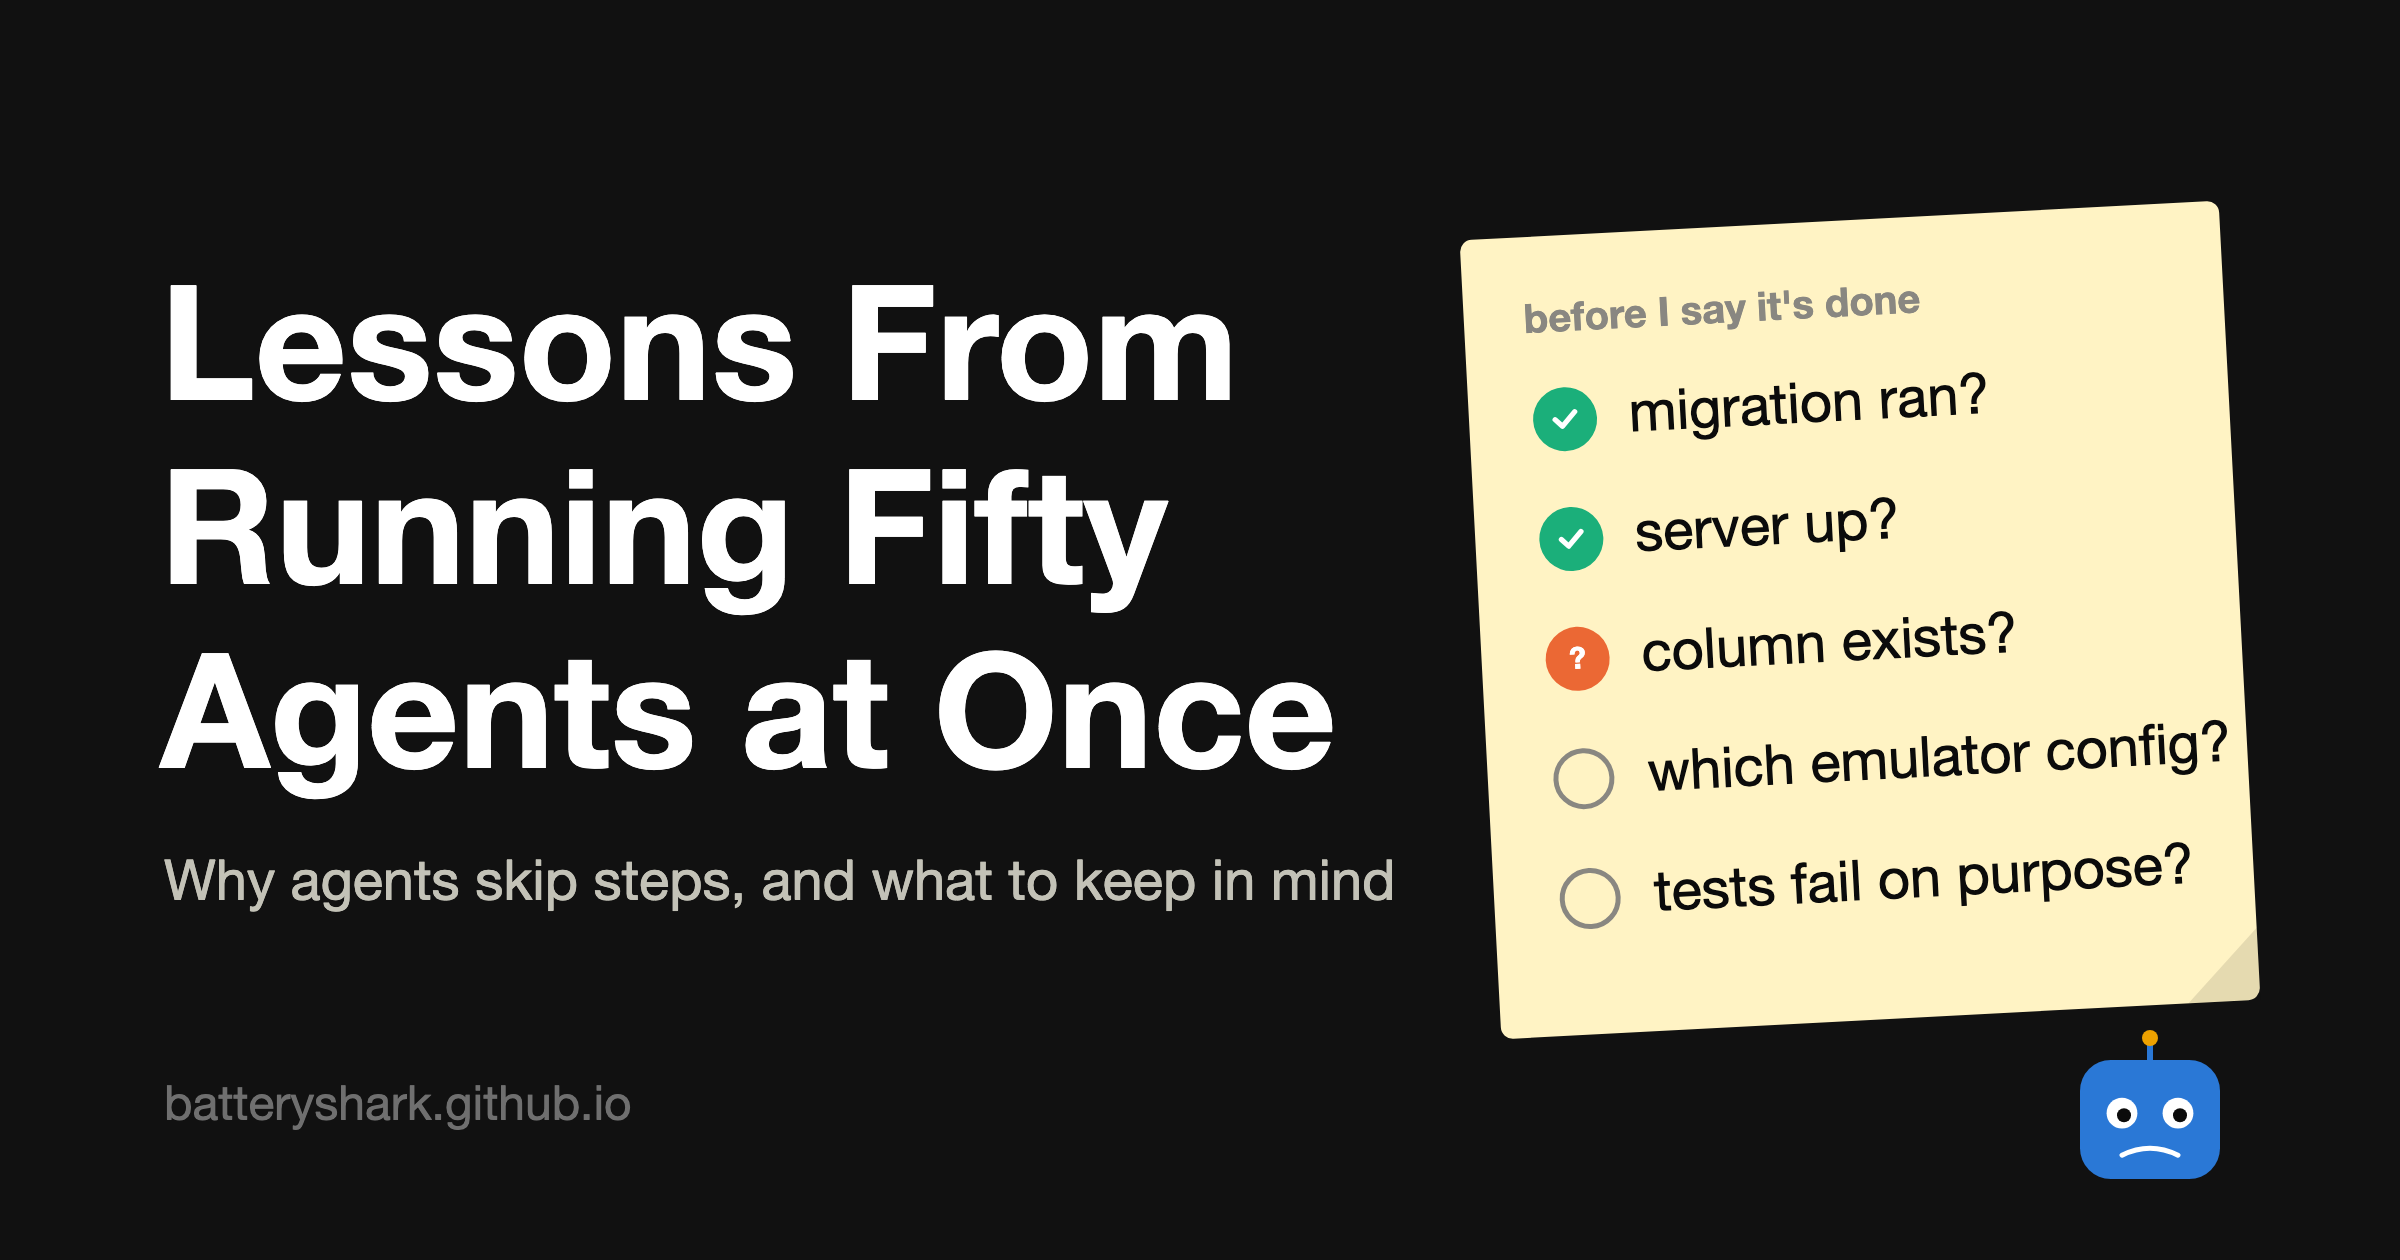
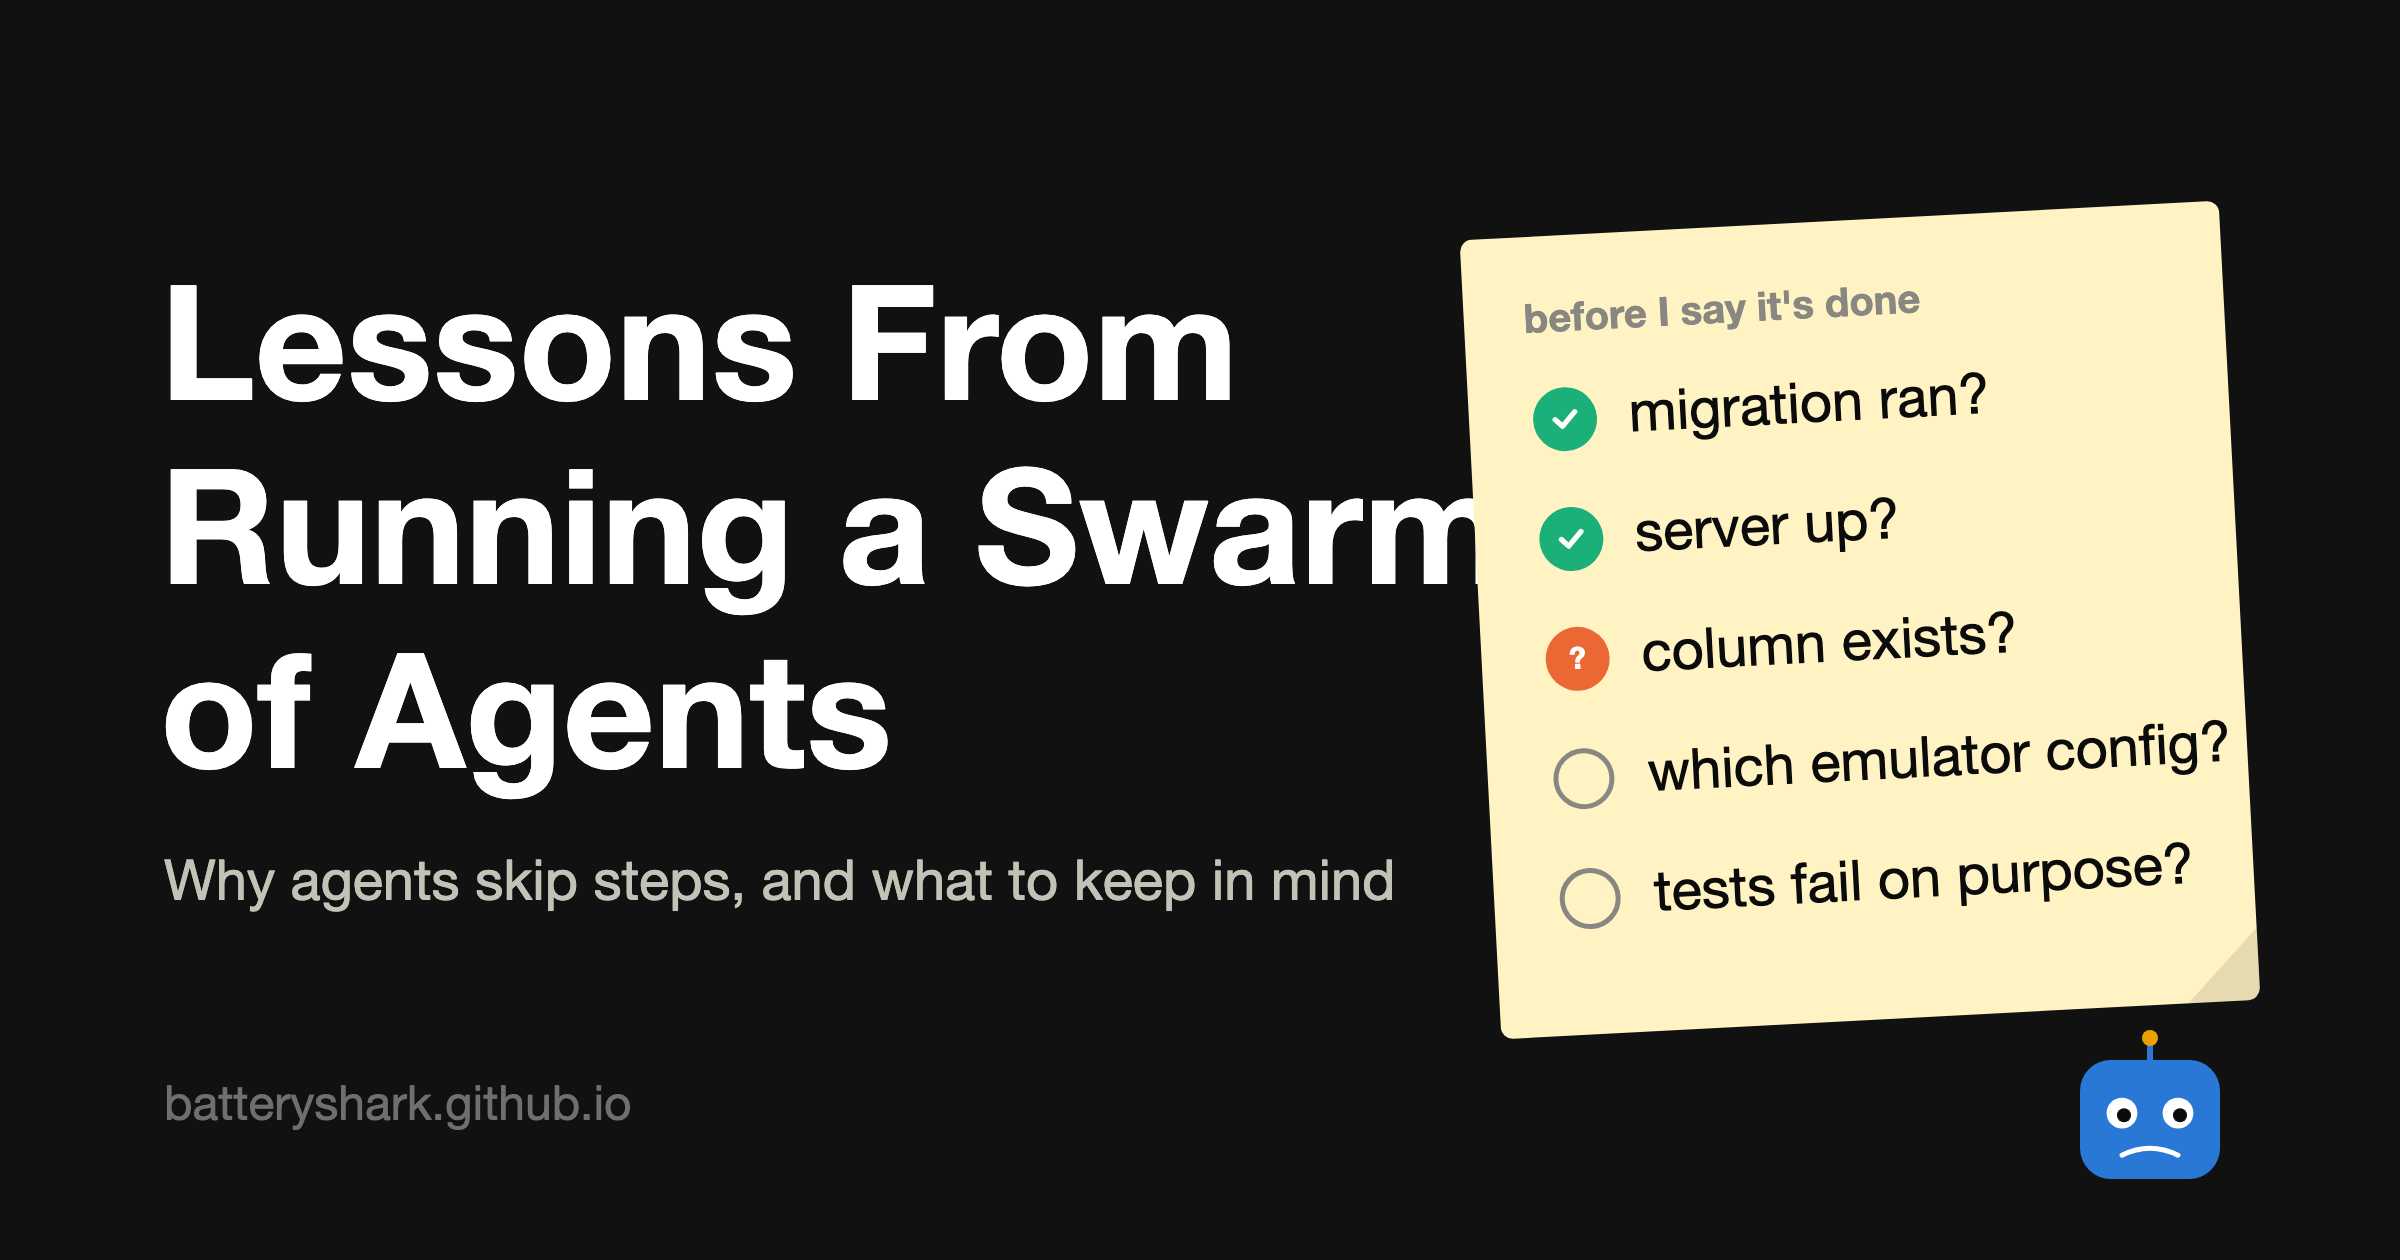
Retitle: Lessons From Running a Swarm of Agents; honest agent counts; what Terminal-Bench measures
Seven to fifty agents depending on the work, not fifty throughout. The
Terminal-Bench 4.0 data is now introduced as a completion benchmark (66
real deliverables, bash, no step limit, verifier on the end state) with
the reason it is here, and the facts section no longer implies it measures
prediction.

Changed region(s): [[0.0625, 0.4952, 0.5625, 0.65], [0.3438, 0.3714, 0.625, 0.4952]]

diff --git a/_posts/2026-10-09-why-agents-skip-steps.md b/_posts/2026-10-09-why-agents-skip-steps.md
@@ -1,15 +1,15 @@
 ---
 layout: post
-title: "Lessons From Running Fifty Agents at Once"
+title: "Lessons From Running a Swarm of Agents"
 date: 2026-10-09
-description: "Why agents skip steps, and what to keep in mind when you start something with a swarm of them, while it runs, when it gets stuck, and when you change your mind about what you wanted. From weeks-long projects with twenty to fifty agents building at once."
+description: "Why agents skip steps, and what to keep in mind when you start something with a swarm of them, while it runs, when it gets stuck, and when you change your mind about what you wanted. From weeks-long projects with anywhere from seven to fifty agents working at once."
 tags: [agents, ai-engineering, harness-design, tooling]
 toc: true
 image: /assets/images/20261009/social.png
 ---
 
 <figure>
-  <img src="/assets/images/20261009/banner.png" alt="Title art: the words Lessons From Running Fifty Agents at Once beside a sticky note of questions you answer for yourself labeled with questions you answer for yourself: migration ran? server up? column exists? which emulator config?">
+  <img src="/assets/images/20261009/banner.png" alt="Title art: the words Lessons From Running a Swarm of Agents beside a sticky note of questions you answer for yourself labeled with questions you answer for yourself: migration ran? server up? column exists? which emulator config?">
 </figure>
 
 In [my last post]({% post_url 2026-10-02-bug-hunting-in-retro-games %}), an
@@ -25,8 +25,9 @@ emulator, which had the multitap on. I knew which setup I play on. It never
 came up.
 
 This post is about getting better results from agents on larger projects,
-the kind that run for weeks with twenty to fifty agents working at once, not
-one agent and a button: the things I've found worth keeping in mind when I
+the kind that run for weeks with anywhere from seven to fifty agents working
+at once depending on whether the work is research, investigation, or
+building, not one agent and a button: the things I've found worth keeping in mind when I
 start something, while it runs, when it gets stuck, and when I change my mind
 about what I wanted, which on a long project I always do. The first half is why the gap exists.
 If you already believe an agent can't see your machine, skip to
@@ -232,9 +233,10 @@ assumed. Every requirement I didn't write down gets filled in by the model's
 judgment, and the work is finished before I see any of it.
 
 With one agent that's manageable. But past a toy example I'm not waiting on
-one agent to build anything moderately complex; I need twenty or fifty
-running at once, and what that trade costs is visibility into the small
-decisions. Each agent fills its gaps its own way, then they build on each
+one agent to build anything moderately complex; I need anywhere from seven
+to fifty running at once, depending on whether the work is research,
+investigation, or building, and what that trade costs is visibility into the
+small decisions. Each agent fills its gaps its own way, then they build on each
 other's fills, and the drift from what I thought I said grows exponentially
 with every hour nobody is watching.
 
@@ -590,10 +592,14 @@ third or less. On my own machine, a 27B model asked for the program state ten
 lines ahead got it right never with reasoning off and two thirds of the time
 with reasoning on, at twenty times the cost ([A2](#a2-my-lookahead-run)).
 
-None of this is a last-generation problem. On the one shared harness that
-runs every current model on Terminal-Bench 4.0, the best of them, Claude Opus
-5.5, finishes 65% of the tasks as of October 7, 2026; GPT-6 Astra finishes
-60% and Grok 4.7 29% ([A4](#a4-harnesses-horizons-and-loops)).
+The current generation isn't exempt, though the measure there is different.
+Terminal-Bench 4.0 is a completion benchmark, not a prediction one: 66
+realistic jobs in a sandboxed terminal, the agent gets bash with no step
+limit, and a verifier checks the end state after it stops. With every chance
+to run and check, the best current model, Claude Opus 5.5, finishes 65% of
+the jobs as of October 7, 2026; GPT-6 Astra 60%, Grok 4.7 29%
+([A4](#a4-harnesses-horizons-and-loops)). The two benchmarks above are the
+ones that measure prediction.
 
 **It's optimistic about its own work.** In a 2026 Anthropic harness
 experiment, agents reliably graded their own work too generously
@@ -742,8 +748,17 @@ tasks finished half the time (confidence interval 5 to 61 hours) and about
 1.5 hours for tasks finished 80% of the time, with the strongest agents
 having essentially saturated the Time Horizon 1.1 suite.
 
-Where the current models stand on one harness: Vals AI runs every model
-through the same minimal agent (mini-SWE-agent) on Terminal-Bench 4.0. As of
+Where the current models stand on one harness. Terminal-Bench 4.0 isn't a
+prediction benchmark and doesn't measure reading what you wanted: it's 66
+community-written tasks across software, science, ML, operations, hardware,
+security, and media, each a real deliverable (one example: speed up worker
+startup for a transaction pipeline), graded by a verifier that runs after
+the agent finishes, all or nothing, with the agent given bash, no step
+limit, and up to eight hours. It's here for two reasons: it's the one place
+every current model is run through the same harness, and it shows how often
+finishing happens when the agent can run anything it wants.
+
+Vals AI runs every model through the same minimal agent (mini-SWE-agent). As of
 October 7, 2026, Claude Opus 5.5 leads at 65%, with Claude Sonnet 5.5 at 64%,
 GPT-6 Astra at 60%, Claude Fable 5.1 at 58%, GPT-6.1 Sol at 55%, GLM 5.3 at
 39%, Grok 4.7 at 29%, DeepSeek V4.1 Flash at 20%, and Kimi K3 at 17%. The
